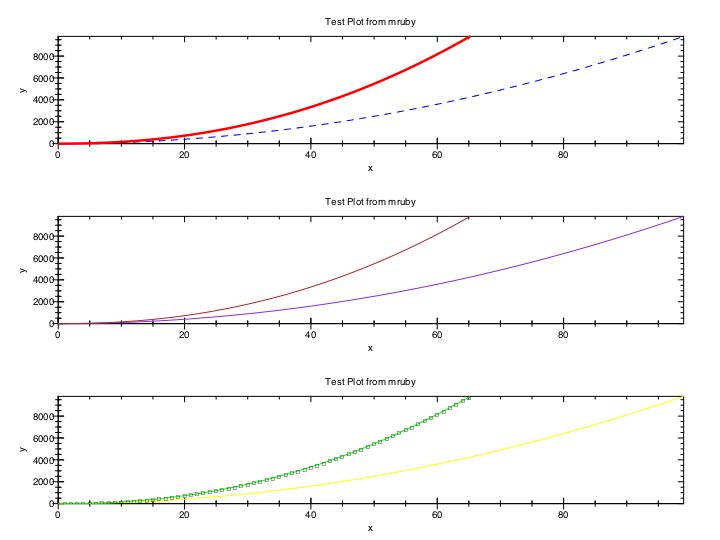
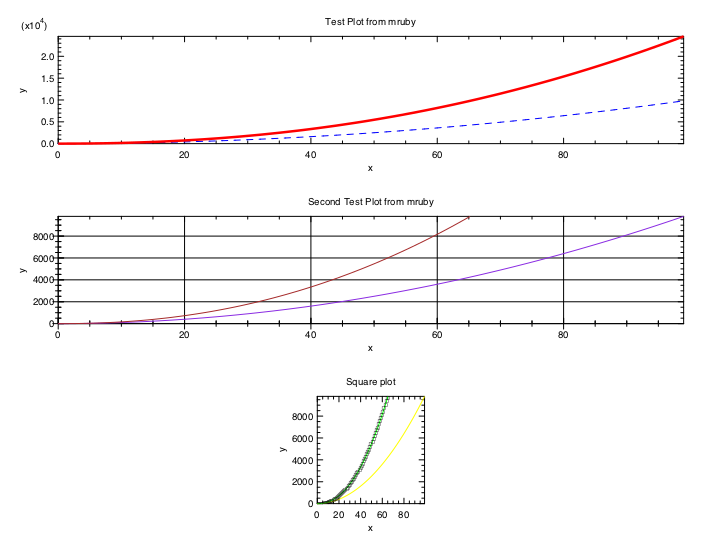
Improved interface to PLPlot:env()

diff --git a/test.rb b/test.rb
@@ -6,25 +6,31 @@ l2 = PLPlot::Series.new  # second data series
   l2 << [i, i**2.2]
 end
 
-PLPlot.set_grid(1,3)     # I want a grid of 1 column, 3 rows of charts
+range = PLPlot.envelope [l1, l2] # calculate the XY envelope of l1 and l2
 
+puts "Printing using PLPlot v#{PLPlot.version}"
+puts "Available file formats: #{PLPlot::FORMATS}"
+PLPlot.set_grid(1,3)     # I want a grid of 1 column, 3 rows of charts
 PLPlot.plot("block_plot.png") do |p|  # driver is inferred from file extension
 
-  p.env(*l1.range, 0, 1)
+  p.env(*range)        # use full range for both l1 and l2
   p.lab("x", "y", "Test Plot from mruby")
-  l1.line(:blue, 1, 3)
-  l2.line(:red, 2.5)
-    
-  p.env(*l1.range, 0, 1)
-  p.lab("x", "y", "Test Plot from mruby")
+  l1.line(:blue, 1, 3) # thickness 1, line type 3
+  l2.line(:red, 2.5)   # thickness 2.5, line type 0 (default)
+  
+  p.box = :major       # see PLPlot::BOX_CODES and PLPlot::SCALING_CODES
+  p.env(*l1.range)     # use only range of l1
+  p.lab("x", "y", "Second Test Plot from mruby")
   l1.line(:violet)
   l2.line(:brown)  
 
-  p.env(*l1.range, 0, 1)
-  p.lab("x", "y", "Test Plot from mruby")
-  l1.line(PLPlot.cycle_color)
+  p.box = :ticks              # sticky attribute (for next subplots)
+  p.scaling = :square         # sticky attribute
+  p.env(*l1.range)
+  p.lab("x", "y", "Square plot")
+  l1.line(PLPlot.cycle_color) # cycles line color from 1 to 15 at every call
   l2.line(PLPlot.cycle_color)  
-  l2.points(:black)
+  l2.points(:black, 0)        # black square points
 
 end
 

diff --git a/mrblib/plplot.rb b/mrblib/plplot.rb
@@ -18,10 +18,37 @@ module PLPlot
     :salmon     => 14,
     :black      => 15
   }
+  SCALING_CODES = {free:0, equal:1, square:2}
+  SCALING_CODES.default = 0
+  BOX_CODES = {nothing:-2, box_only:-1, ticks:0, axes:1, major:2, minor:3}
+  
   @grid = []
   @current_color = 1
+  @scaling = 0
+  @box = 0
   
   def self.colors; COLOR.keys; end
+  
+  def self.scaling=(k)
+    raise ArgumentError, "Only :free, :equal, or :square" unless SCALING_CODES.keys.include? k
+    @scaling = SCALING_CODES[k]
+  end
+  
+  def self.box=(k)
+    case k
+    when Fixnum
+      if (0..3).include?(k.to_s[-1].to_i) && (-1..8).include?(k/10) then
+        @box = k
+      else
+        raise ArgumentError, "Invalid box code (see plenv() C function)"
+      end
+    when Symbol 
+      raise ArgumentError, "Unknown box key" unless BOX_CODES.keys.include? k
+      @box = BOX_CODES[k]
+    else
+      raise ArgumentError, "Unsupported box key"
+    end
+  end
   
   def self.cycle_color
     @current_color = 0 if @current_color == 15
@@ -56,6 +83,20 @@ module PLPlot
     @grid[1] = ny
     return @grid
   end
+  
+  def self.envelope(ary)
+    raise ArgumentError, "Need an argment of PLPlot:Series" unless ary.kind_of? Array
+    pair = ary[0].range
+    ary.inject(pair) {|m,v|
+      r = v.range
+      m[0] = [m[0], r[0]].min
+      m[1] = [m[1], r[1]].max
+      m[2] = [m[2], r[2]].min
+      m[3] = [m[3], r[3]].max
+      m
+    }
+  end
+  
   
   class Series
     attr_accessor :x, :y

diff --git a/src/plplot.c b/src/plplot.c
@@ -77,16 +77,14 @@ static mrb_value mrb_plplot_adv(mrb_state *mrb, mrb_value self) {
 
 static mrb_value mrb_plplot_env(mrb_state *mrb, mrb_value self) {
   mrb_float xmin, xmax, ymin, ymax;
-  mrb_int nargs, just, axes;
-  nargs = mrb_get_args(mrb, "ffff|ii", &xmin, &xmax, &ymin, &ymax, &just, &axes);
-  if (nargs < 6) {
-    axes = 0;
-  }
-  if (nargs < 5) {
-    just = 0;
-  }
+  mrb_int nargs, scaling, axes;
+  nargs = mrb_get_args(mrb, "ffff", &xmin, &xmax, &ymin, &ymax);
+  
+  scaling = mrb_fixnum(mrb_iv_get(mrb, self, mrb_intern_lit(mrb, "@scaling")));
+  axes = mrb_fixnum(mrb_iv_get(mrb, self, mrb_intern_lit(mrb, "@box")));
+  
   plcol0( 15 );
-  plenv( xmin, xmax, ymin, ymax, just, axes );
+  plenv( xmin, xmax, ymin, ymax, scaling, axes );
   return self;
 }
 

diff --git a/README.md b/README.md
@@ -21,25 +21,31 @@ l2 = PLPlot::Series.new  # second data series
   l2 << [i, i**2.2]
 end
 
-PLPlot.set_grid(1,3)     # I want a grid of 1 column, 3 rows of charts
+range = PLPlot.envelope [l1, l2] # calculate the XY envelope of l1 and l2
 
+puts "Printing using PLPlot v#{PLPlot.version}"
+puts "Available file formats: #{PLPlot::FORMATS}"
+PLPlot.set_grid(1,3)     # I want a grid of 1 column, 3 rows of charts
 PLPlot.plot("block_plot.png") do |p|  # driver is inferred from file extension
 
-  p.env(*l1.range, 0, 1)
+  p.env(*range)        # use full range for both l1 and l2
   p.lab("x", "y", "Test Plot from mruby")
-  l1.line(:blue, 1, 3)
-  l2.line(:red, 2.5)
-    
-  p.env(*l1.range, 0, 1)
-  p.lab("x", "y", "Test Plot from mruby")
+  l1.line(:blue, 1, 3) # thickness 1, line type 3
+  l2.line(:red, 2.5)   # thickness 2.5, line type 0 (default)
+  
+  p.box = :major       # see PLPlot::BOX_CODES and PLPlot::SCALING_CODES
+  p.env(*l1.range)     # use only range of l1
+  p.lab("x", "y", "Second Test Plot from mruby")
   l1.line(:violet)
   l2.line(:brown)  
 
-  p.env(*l1.range, 0, 1)
-  p.lab("x", "y", "Test Plot from mruby")
-  l1.line(PLPlot.cycle_color)
+  p.box = :ticks              # sticky attribute (for next subplots)
+  p.scaling = :square         # sticky attribute
+  p.env(*l1.range)
+  p.lab("x", "y", "Square plot")
+  l1.line(PLPlot.cycle_color) # cycles line color from 1 to 15 at every call
   l2.line(PLPlot.cycle_color)  
-  l2.points(:black)
+  l2.points(:black, 0)        # black square points
 
 end
 ```
@@ -53,7 +59,7 @@ This results in the following image:
 ## ToDo
 
 * Legends
-* Improve interface of `PLPlot::env`
+* ~~Improve interface of `PLPlot::env`~~
 * Allow to set chart size
 * Add support to interctive drivers
 * Add support to 3D charts
